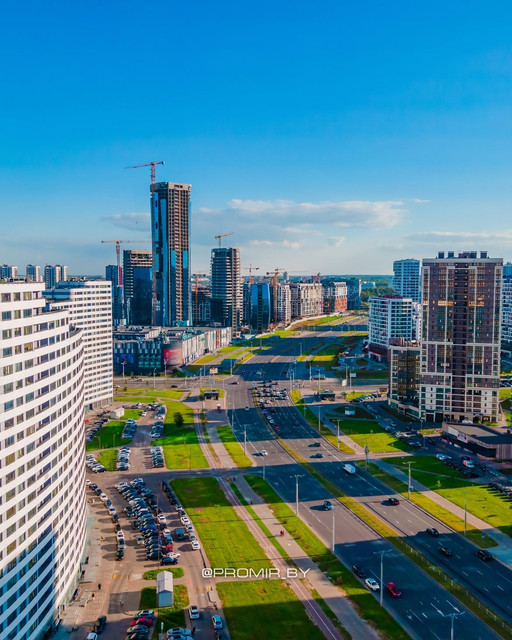
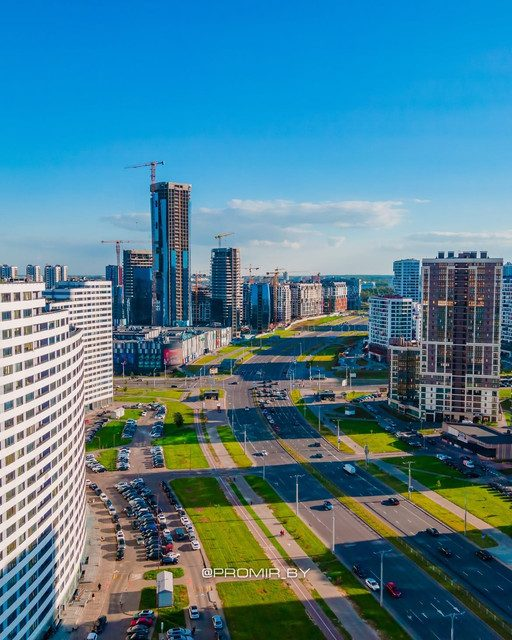
SEO гида: ценовые вопросы в FAQ, ссылка на Red One, динамичный бейдж, лёгкие hero
Оставшиеся пункты аудита (журнал SEO_PLAN.md, 2026-08-26):
- FAQ +2 вопроса под ценовой интент («сколько стоит аренда/купить
  помещение в Минск Мире») — без цифр текстом, со ссылкой на живые
  таблицы рынков; итого 30 вопросов
- «Деловой центр Red One» в карточке «Офисные помещения» — теперь
  внутренняя ссылка на /minsk/one (description переведён на ReactNode)
- Бейдж «Обновлено: ...» считается из DATE_MODIFIED — не разойдётся
  с dateModified в Article JSON-LD
- Hero-фото пережаты (quality=82 progressive): 839→528 КБ, −37%

Claude-Session: https://claude.ai/code/session_01TVzLpqUpH5Sja8f4CL9N7v

diff --git a/src/pages/DistrictGuidePage.tsx b/src/pages/DistrictGuidePage.tsx
@@ -1,4 +1,5 @@
 import { useEffect, useRef, useState } from 'react';
+import type { ReactNode } from 'react';
 import { Link } from 'react-router-dom';
 import {
   Archive,
@@ -609,6 +610,16 @@ const MONTH_NAMES = [
   'декабрь',
 ];
 
+// Видимый бейдж свежести в hero считается из DATE_MODIFIED, а не хардкодится
+// отдельной строкой (аудит 2026-08-26: текст «Обновлено: август 2026» жил
+// сам по себе и гарантированно разошёлся бы с dateModified в Article JSON-LD
+// при следующем обновлении — а расхождение видимой даты с разметкой хуже,
+// чем её отсутствие). Обновлять теперь нужно только саму DATE_MODIFIED.
+const UPDATED_BADGE_LABEL = (() => {
+  const [year, month] = DATE_MODIFIED.split('-');
+  return `Обновлено: ${MONTH_NAMES[Number(month) - 1]} ${year}`;
+})();
+
 function formatLatestUpdate(offers: MarketOffer[]): string {
   const latest = offers.reduce((max, o) => (o.updatedAt > max ? o.updatedAt : max), offers[0].updatedAt);
   const date = new Date(latest);
@@ -820,7 +831,13 @@ const parkingAddresses: { category: string; house: string; address: string | nul
 interface DistrictPropertyType {
   icon: LucideIcon;
   title: string;
-  description: string;
+  // ReactNode, не string — карточке "Офисные помещения" нужна внутренняя
+  // ссылка на /minsk/one прямо в тексте (аудит 2026-08-26: упоминание
+  // "деловой центр Red One" было голым текстом — упущенный внутренний линк
+  // из самого релевантного контекста страницы). ВАЖНО: ссылку в description
+  // можно класть только карточкам БЕЗ anchor — карточка с anchor целиком
+  // обёрнута в <a>, вложенный <a> невалиден в HTML.
+  description: ReactNode;
   // Якорь на другой раздел этой же страницы — сейчас только у "Бизнес-
   // апартаментов" (ведёт на id="business-apartments" ниже, где заглушка
   // с более развёрнутым пояснением, чтобы не дублировать текст в двух
@@ -845,8 +862,16 @@ const districtPropertyTypes: DistrictPropertyType[] = [
   {
     icon: Briefcase,
     title: 'Офисные помещения',
-    description:
-      'Классические офисные площади под кабинеты, представительства и небольшие команды. В районе особенно не хватает готовых компактных офисов с отделкой — этот дефицит закрывает деловой центр Red One по соседству.',
+    description: (
+      <>
+        Классические офисные площади под кабинеты, представительства и небольшие команды. В районе особенно не
+        хватает готовых компактных офисов с отделкой — этот дефицит закрывает{' '}
+        <Link to="/minsk/one" className="font-semibold text-primary hover:underline">
+          деловой центр Red One
+        </Link>{' '}
+        по соседству.
+      </>
+    ),
   },
   {
     icon: Car,
@@ -974,6 +999,23 @@ const districtFaq: FaqItem[] = [
     question: 'В чём разница между первичным и вторичным рынком коммерческой недвижимости в Минск Мире?',
     answer:
       'Первичный рынок — это предложения напрямую от застройщика (площадка bir.by): бизнес-апартаменты, торговые помещения, офисы и кладовые, цена указывается за чистый м² без учёта террас. Вторичный рынок — это уже готовые к сделке помещения от собственников, размещённые в открытых объявлениях (например, на Kufar), с готовой или черновой отделкой, на продажу или в аренду. Актуальную сводную статистику по количеству предложений и медианной цене за м² по обоим рынкам, с разбивкой по типу помещения и площади, можно посмотреть в соответствующих разделах этой страницы — данные обновляются регулярно.',
+  },
+  // Два ценовых вопроса (2026-08-26, аудит: самый частотный коммерческий
+  // интент «сколько стоит аренда/купить помещение» не был покрыт FAQ, а
+  // слова «аренда»/«купить» не встречались ни в одном заголовке страницы).
+  // Конкретные цифры в ответы сознательно НЕ вшиты — они живые и уже есть
+  // в таблицах рынков выше, FAQ ссылается на них, а не дублирует (то же
+  // решение, что и для остальных «живых» цифр этого блока — см. комментарий
+  // в начале districtFaq).
+  {
+    question: 'Сколько стоит аренда коммерческого помещения в Минск Мире?',
+    answer:
+      'Ставка аренды зависит от типа помещения, площади и отделки — помещения с готовой отделкой заметно дороже помещений без неё, поэтому смешивать их в одной цифре некорректно. Актуальные медианные ставки аренды за квадратный метр по типам помещений и диапазонам площадей собраны в таблице «Вторичный рынок коммерческой недвижимости» на этой странице: данные считаются по действующим объявлениям и обновляются ежемесячно, с раздельными сводками для помещений с отделкой и без.',
+  },
+  {
+    question: 'Сколько стоит купить коммерческое помещение в Минск Мире?',
+    answer:
+      'Цена покупки зависит от рынка и формата. На первичном рынке (напрямую от застройщика) продаются бизнес-апартаменты, торговые помещения, офисы и кладовые — минимальные, средние и максимальные цены за квадратный метр по каждой категории собраны в таблице «Первичный рынок» на этой странице. На вторичном рынке ориентир — медианные цены за метр в таблице «Вторичный рынок», отдельно для продажи и аренды, с отделкой и без. Обе сводки обновляются регулярно по живым объявлениям, поэтому отражают текущий рынок, а не устаревшие цифры.',
   },
   {
     question: 'Легко ли найти небольшой офис с отделкой в Минск Мире?',
@@ -1355,7 +1397,7 @@ export function DistrictGuidePage() {
                 "проверено", не только "когда-то обновлено". */}
             <span className="flex w-fit items-center gap-1.5 rounded-full border border-success/30 bg-success-bg px-3 py-1 text-xs font-semibold text-success">
               <BadgeCheck className="h-3.5 w-3.5 shrink-0" />
-              Обновлено: август 2026
+              {UPDATED_BADGE_LABEL}
             </span>
           </div>
           <div className="mx-auto w-full max-w-xs sm:max-w-none">

diff --git a/SEO_PLAN.md b/SEO_PLAN.md
@@ -331,6 +331,35 @@
 
 ## Журнал выполнения
 
+- **2026-08-26 — Доделаны оставшиеся пункты аудита 2026-08-25 (владелец:
+  "доделай оставшиеся пункты").** Из списка «НЕ сделано» предыдущей записи:
+  - **Ценовой интент в FAQ**: +2 вопроса («Сколько стоит аренда...» /
+    «Сколько стоит купить коммерческое помещение в Минск Мире?») — итого
+    30; конкретные цифры в ответы сознательно не вшиты (живые, ссылаемся
+    на таблицы рынков на этой же странице), слова «аренда»/«купить» теперь
+    есть в заголовках (вопросы FAQ — h3 со вчерашнего захода).
+  - **Ссылка на Red One из карточки «Офисные помещения»**:
+    `DistrictPropertyType.description` переведён на ReactNode, анкор —
+    «деловой центр Red One» (брендовая связка из вывода №8 исследования).
+    ВАЖНО: ссылку в description можно класть только карточкам без anchor
+    (карточка с anchor обёрнута в `<a>` целиком, вложенный `<a>` невалиден)
+    — комментарий в коде есть.
+  - **Бейдж «Обновлено: ...» теперь считается из DATE_MODIFIED**
+    (`UPDATED_BADGE_LABEL`) — при следующем пересмотре текста обновлять
+    только константу DATE_MODIFIED, видимая дата и dateModified в Article
+    JSON-LD разойтись больше не могут.
+  - **Hero-фото пережаты**: quality=82 progressive, 839→528 КБ на все 6
+    (−37%), визуально неотличимо (проверено side-by-side кропом 2×).
+  - Проверено мок-тестом (Playwright): оба новых вопроса в DOM как h3 и в
+    FAQPage JSON-LD, ссылка в карточке рендерится реальным `<a
+    href="/minsk/one">`, бейдж собрался верно. tsc/build чистые.
+  - Из списка НЕ тронуто (не кодовые/ждут владельца): судьба
+    /minsk/redstorage (сирота без внутренних ссылок — нужно решение
+    владельца, см. «/redstorage — отдельное решение» выше); каннибализация
+    title гида и /one (оба title зафиксированы владельцем — разводить
+    контентом со временем); зеркало GitHub Pages (canonical защищает,
+    действий в коде нет).
+
 - **2026-08-25 — Финальная SEO-оптимизация гида /minsk/minsk-mir (владелец:
   "провести финальную оптимизацию, чтобы страница начинала полноценно
   индексироваться").** Проведён аудит по 6 направлениям (meta/head,
